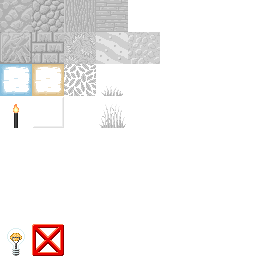
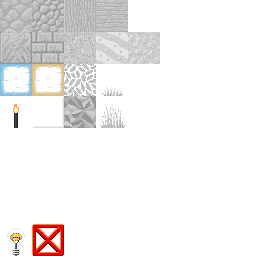
Added colored crystal blocks, generated "crystals" are now generated with them

Changed region(s): [[0.25, 0.375, 0.375, 0.5]]

diff --git a/src/LAB_block.c b/src/LAB_block.c
@@ -215,6 +215,48 @@ LAB_Block LAB_BLOCK_RED_LIGHT = {
     .model = &LAB_MODEL_LIGHT_RED,
 };
 
+
+
+
+LAB_DEF_MODEL_CUBE_SHADELESS_ALL(LAB_MODEL_CRYSTAL_BLUE, 2, 3, LAB_RGB(32, 32, 255),);
+LAB_Block LAB_BLOCK_BLUE_CRYSTAL = {
+    .flags = LAB_BLOCK_SOLID | LAB_BLOCK_GLOWING | LAB_BLOCK_NOSHADE,
+    .lum = LAB_RGB(16/3, 64/3, 255/3),
+    .item_tint = LAB_RGB(32, 32, 255),
+    .item_tx = 2, 3,
+    .model = &LAB_MODEL_CRYSTAL_BLUE,
+};
+
+LAB_DEF_MODEL_CUBE_SHADELESS_ALL(LAB_MODEL_CRYSTAL_YELLOW, 2, 3, LAB_RGB(255, 240, 32),);
+LAB_Block LAB_BLOCK_YELLOW_CRYSTAL = {
+    .flags = LAB_BLOCK_SOLID | LAB_BLOCK_GLOWING | LAB_BLOCK_NOSHADE,
+    .lum = LAB_RGB(255/3, 240/3, 16/3),
+    .item_tint = LAB_RGB(255, 240, 32),
+    .item_tx = 2, 3,
+    .model = &LAB_MODEL_CRYSTAL_YELLOW,
+};
+
+LAB_DEF_MODEL_CUBE_SHADELESS_ALL(LAB_MODEL_CRYSTAL_GREEN, 2, 3, LAB_RGB(40, 255, 32),);
+LAB_Block LAB_BLOCK_GREEN_CRYSTAL = {
+    .flags = LAB_BLOCK_SOLID | LAB_BLOCK_GLOWING | LAB_BLOCK_NOSHADE,
+    .lum = LAB_RGB(64/3, 255/3, 16/3),
+    .item_tint = LAB_RGB(40, 255, 32),
+    .item_tx = 2, 3,
+    .model = &LAB_MODEL_CRYSTAL_GREEN,
+};
+
+LAB_DEF_MODEL_CUBE_SHADELESS_ALL(LAB_MODEL_CRYSTAL_RED, 2, 3, LAB_RGB(255, 25, 15),);
+LAB_Block LAB_BLOCK_RED_CRYSTAL = {
+    .flags = LAB_BLOCK_SOLID | LAB_BLOCK_GLOWING | LAB_BLOCK_NOSHADE,
+    .lum = LAB_RGB(255/3, 20/3, 16/3),
+    .item_tint = LAB_RGB(255, 25, 15),
+    .item_tx = 2, 3,
+    .model = &LAB_MODEL_CRYSTAL_RED,
+};
+
+
+
+
 // TODO: different texture
 LAB_Block LAB_BLOCK_INVISIBLE_LIGHT = {
     .flags = LAB_BLOCK_INTERACTABLE | LAB_BLOCK_EMISSIVE,
@@ -259,6 +301,10 @@ LAB_Block* LAB_blocks_arr[] =
     &LAB_BLOCK_YELLOW_LIGHT,
     &LAB_BLOCK_GREEN_LIGHT,
     &LAB_BLOCK_RED_LIGHT,
+    &LAB_BLOCK_BLUE_CRYSTAL,
+    &LAB_BLOCK_YELLOW_CRYSTAL,
+    &LAB_BLOCK_GREEN_CRYSTAL,
+    &LAB_BLOCK_RED_CRYSTAL,
     &LAB_BLOCK_INVISIBLE_LIGHT,
     &LAB_BLOCK_BARRIER,
 };

diff --git a/src/LAB_view.c b/src/LAB_view.c
@@ -314,7 +314,17 @@ LAB_STATIC void LAB_ViewBuildMeshBlock(LAB_View* view, LAB_ViewChunkEntry* chunk
     //#define MAP_LIGHT_0(x) LAB_ColorHI4(x)
     #define MAP_LIGHT_0(x) (x)
     #define MAP_LIGHT(x) (view->flags&LAB_VIEW_BRIGHTER?~LAB_MulColor_Fast(LAB_MulColor_Fast(~(x), ~(x)), LAB_MulColor_Fast(~(x), ~(x))):(x))
-    if((view->flags&LAB_VIEW_FLAT_SHADE)||(block->flags&LAB_BLOCK_FLAT_SHADE))
+    if(block->flags&LAB_BLOCK_NOSHADE)
+    {
+        const LAB_Model* model = block->model;
+        if(!model) return;
+        LAB_Triangle* tri;
+        tri = LAB_ViewMeshAlloc(mesh, model->size, 0);
+        if(LAB_UNLIKELY(tri == NULL)) return;
+        int count = LAB_PutModelAt(tri, model, x, y, z, faces, visibility);
+        mesh->size -= model->size-count;
+    }
+    else if((view->flags&LAB_VIEW_FLAT_SHADE)||(block->flags&LAB_BLOCK_FLAT_SHADE))
     {
         LAB_Color light_sides[7];
         for(int face_itr=lum_faces; face_itr; face_itr &= face_itr-1)

diff --git a/include/LAB_block.h b/include/LAB_block.h
@@ -38,6 +38,7 @@ typedef uint32_t LAB_BlockFlags;
 #define LAB_BLOCK_FLAT_SHADE   64u // should be in the model
 #define LAB_BLOCK_EMISSIVE     128u
 #define LAB_BLOCK_GLOWING      (LAB_BLOCK_FLAT_SHADE|LAB_BLOCK_EMISSIVE)
+#define LAB_BLOCK_NOSHADE      256u
 
 
 
@@ -81,6 +82,10 @@ extern LAB_Block LAB_BLOCK_OUTSIDE,
                  LAB_BLOCK_YELLOW_LIGHT,
                  LAB_BLOCK_GREEN_LIGHT,
                  LAB_BLOCK_RED_LIGHT,
+                 LAB_BLOCK_BLUE_CRYSTAL,
+                 LAB_BLOCK_YELLOW_CRYSTAL,
+                 LAB_BLOCK_GREEN_CRYSTAL,
+                 LAB_BLOCK_RED_CRYSTAL,
                  LAB_BLOCK_INVISIBLE_LIGHT,
                  LAB_BLOCK_BARRIER;
 

diff --git a/src/LAB_gen_overworld.c b/src/LAB_gen_overworld.c
@@ -352,7 +352,12 @@ LAB_STATIC void LAB_Gen_Cave_Crystals(LAB_GenOverworld* gen, LAB_Chunk* chunk, i
     {
         for(int i = LAB_NextRandom(&random)&15; i > 0; --i)
         {
-            LAB_Block*const LIGHTS[4] = { &LAB_BLOCK_BLUE_LIGHT, &LAB_BLOCK_YELLOW_LIGHT, &LAB_BLOCK_GREEN_LIGHT, &LAB_BLOCK_RED_LIGHT };
+            LAB_Block*const LIGHTS[4] = {
+                &LAB_BLOCK_BLUE_CRYSTAL,
+                &LAB_BLOCK_YELLOW_CRYSTAL,
+                &LAB_BLOCK_GREEN_CRYSTAL,
+                &LAB_BLOCK_RED_CRYSTAL,
+            };
 
             LAB_Block* light = LIGHTS[LAB_NextRandom(&random)&3];
             int xx = LAB_NextRandom(&random) & 0xf;
